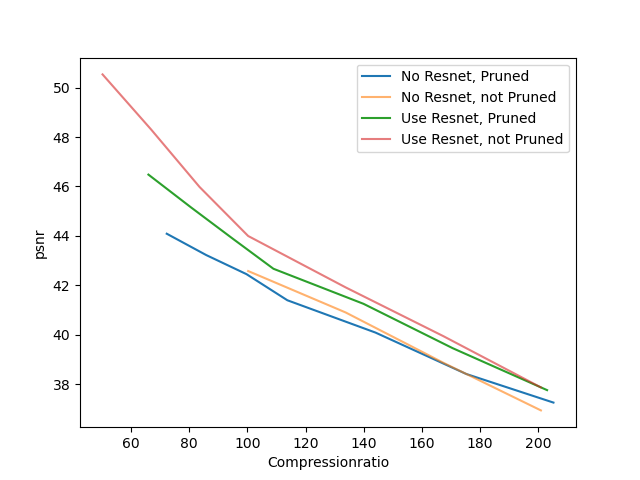
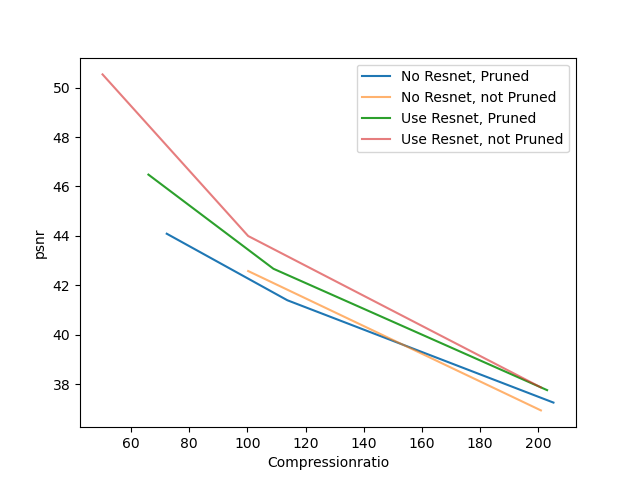
Fix bug in averaging for plots

diff --git a/visualization/generatecomprPlot.py b/visualization/generatecomprPlot.py
@@ -648,11 +648,11 @@ def SmallifyVSNeurcompLR():
 
 def SmallifyAftertrainingVSNoAftertrainig():
     #BASENAMERetrain = 'experiments/diff_comp_rates/test_experiment_Retraining/Retrain/test_experiment_'
-    BASENAMERetrain = 'experiments/diff_comp_rates/test_experiment_Retraining/2C_Retrain/test_experiment_'
+    BASENAMERetrain = 'experiments/diff_comp_rates/test_experiment_Retraining/4C_Retrain/test_experiment_'
     experimentNamesRetrain = ['50_0', '50_1', '50_2', '100_0', '100_1', '100_2', '200_0', '200_1', '200_2', '300_0', '300_1', '300_2', '400_0', '400_1', '400_2']
 
     #BASENAMENoRetrain = 'experiments/diff_comp_rates/test_experiment_Retraining/NoRetrain/test_experiment_'
-    BASENAMENoRetrain = 'experiments/diff_comp_rates/test_experiment_BroaderNW/2C/test_experiment_'
+    BASENAMENoRetrain = 'experiments/diff_comp_rates/test_experiment_BroaderNW/4C/test_experiment_'
     experimentNamesNoRetrain = ['50_0', '50_1', '50_2', '100_0', '100_1', '100_2', '200_0', '200_1', '200_2', '300_0', '300_1', '300_2', '400_0', '400_1', '400_2']
 
     QUANTNAMECONFIG = 'info.txt'
@@ -691,7 +691,7 @@ def SmallifyAftertrainingVSNoAftertrainig():
     plt.ylabel('psnr')
     plt.legend()
 
-    filepath = 'plots/' + 'test_volume_' + 'SmallifyAftertrainingVSNoAftertrainig_2Layer' + '.png'
+    filepath = 'plots/' + 'test_volume_' + 'SmallifyAftertrainingVSNoAftertrainig' + '.png'
     plt.savefig(filepath)
 
 
@@ -811,14 +811,14 @@ def SmallifyDifferentNWSizes():
     # M: plot
     #plt.plot(compressionRatioUnpruned8, PSNRUnpruned8, label='Unpruned 8', alpha=0.6)
     #plt.plot(compressionRatioUnpruned6, PSNRUnpruned6, label='Unpruned 6', alpha=0.6)
-    plt.plot(compressionRatioUnpruned4, PSNRUnpruned4, label='Unpruned 4', alpha=0.6)
-    #plt.plot(compressionRatioUnpruned2, PSNRUnpruned2, label='Unpruned 2', alpha=0.6)
+    #plt.plot(compressionRatioUnpruned4, PSNRUnpruned4, label='Unpruned 4', alpha=0.6)
+    plt.plot(compressionRatioUnpruned2, PSNRUnpruned2, label='Unpruned 2', alpha=0.6)
 
     #plt.plot(compressionRatioPruned8, PSNRPruned8, label='Pruned 8')
     #plt.plot(compressionRatioPruned6, PSNRPruned6, label='Pruned 6')
-    plt.plot(compressionRatioPruned4, PSNRPruned4, label='Pruned 4')
+    #plt.plot(compressionRatioPruned4, PSNRPruned4, label='Pruned 4')
     #plt.plot(compressionRatioPruned4_Other, PSNRPruned4_Other, label='Pruned 4_0.04Momentum')
-    #plt.plot(compressionRatioPruned2, PSNRPruned2, label='Pruned 2')
+    plt.plot(compressionRatioPruned2, PSNRPruned2, label='Pruned 2')
 
     #plt.gca().yaxis.set_major_formatter(FormatStrFormatter('%.2f'))
     #plt.gca().xaxis.set_major_formatter(FormatStrFormatter('%.2f'))
@@ -826,7 +826,7 @@ def SmallifyDifferentNWSizes():
     plt.ylabel('psnr')
     plt.legend()
 
-    filepath = 'plots/' + 'test_volume_' + 'SmallifyDifferentNWSizes_4' + '.png'
+    filepath = 'plots/' + 'test_volume_' + 'SmallifyDifferentNWSizes_2' + '.png'
     plt.savefig(filepath)
 
 
@@ -919,5 +919,5 @@ if __name__ == '__main__':
     #influenceHyperSearchParams()
     #SmallifyVSNeurcompLR()
     #SmallifyAftertrainingVSNoAftertrainig()
-    SmallifyDifferentNWSizes()
-    #ResnetVSNoResnet()
+    #SmallifyDifferentNWSizes()
+    ResnetVSNoResnet()

diff --git a/visualization/pltUtils.py b/visualization/pltUtils.py
@@ -102,11 +102,10 @@ def generate_orderedValues(data, highestValue):
 def generateMeanValues(originalData, numbersOfElements):
     data_sum = []
 
-    for i in range(len(originalData) - (numbersOfElements -1)):
+    for i in range(0, len(originalData) - (numbersOfElements -1), numbersOfElements):
         cur = 0
         for j in range(numbersOfElements):
             cur += originalData[i+j]
         data_sum.append(cur/numbersOfElements)
-        i += numbersOfElements
 
     return data_sum
